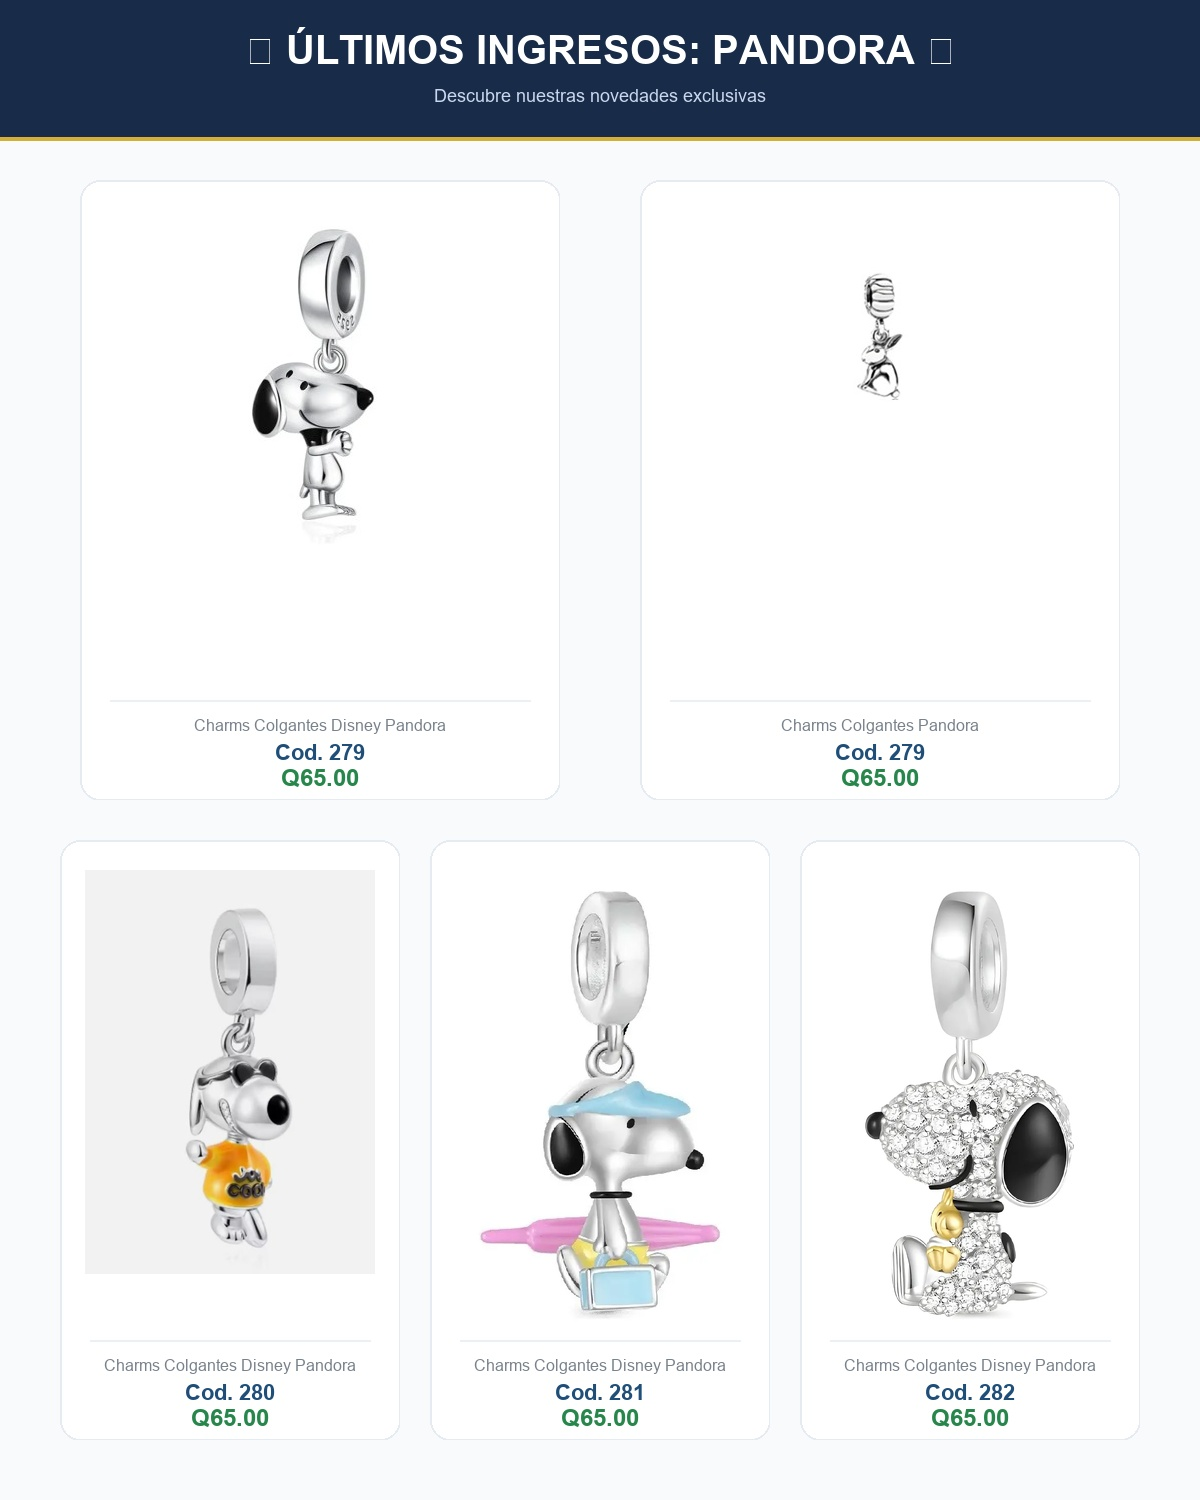
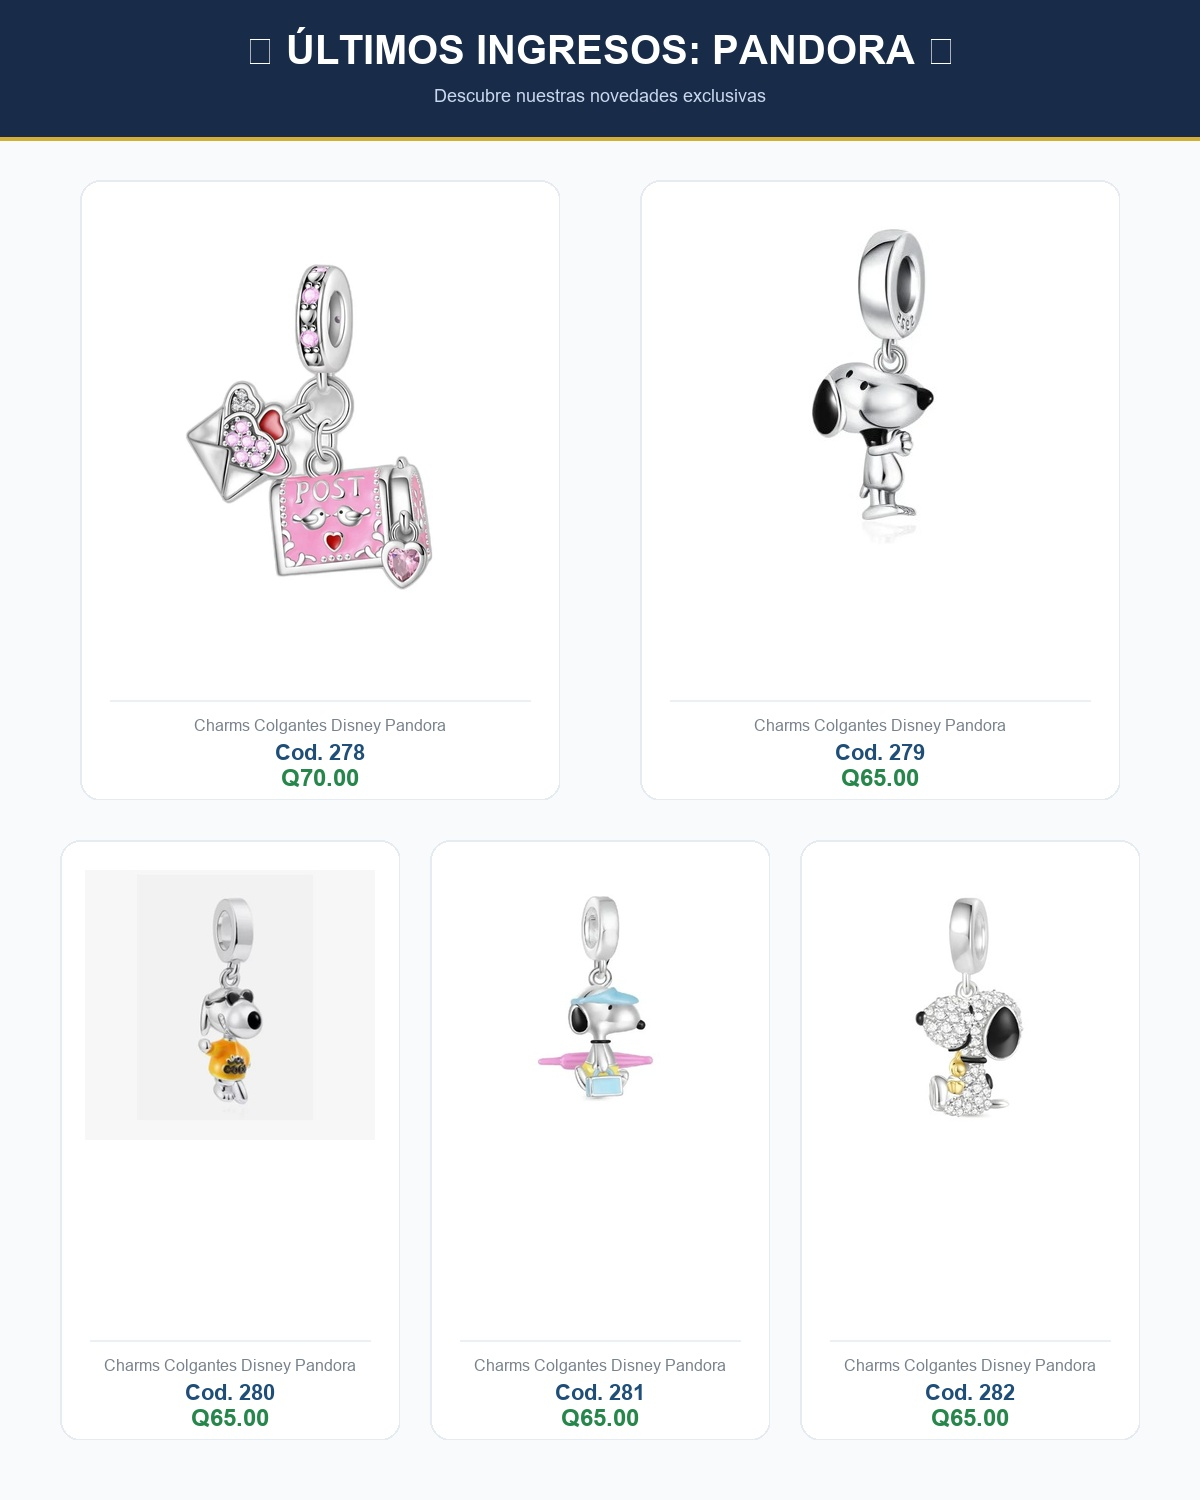
actualización general

diff --git a/charmscolgantesdisney.js b/charmscolgantesdisney.js
@@ -3,12 +3,12 @@ const productosCharmsColgantesDisney = [
         "id": 282,
         "categoria": "Charms Colgantes Disney",
         "precio": 65.0,
-        "imagen": "imagenes/charms_colgantes_disney/chcd_282.0.webp",
+        "imagen": "imagenes/charms_colgantes_disney/chcd_282.0.jpg",
         "stockTallas": {},
         "galeria": [
             {
                 "tipo": "imagen",
-                "url": "imagenes/charms_colgantes_disney/chcd_282.0.webp"
+                "url": "imagenes/charms_colgantes_disney/chcd_282.0.jpg"
             },
             {
                 "tipo": "imagen",
@@ -48,12 +48,12 @@ const productosCharmsColgantesDisney = [
         "id": 281,
         "categoria": "Charms Colgantes Disney",
         "precio": 65.0,
-        "imagen": "imagenes/charms_colgantes_disney/chcd_281.0.webp",
+        "imagen": "imagenes/charms_colgantes_disney/chcd_281.0.jpg",
         "stockTallas": {},
         "galeria": [
             {
                 "tipo": "imagen",
-                "url": "imagenes/charms_colgantes_disney/chcd_281.0.webp"
+                "url": "imagenes/charms_colgantes_disney/chcd_281.0.jpg"
             },
             {
                 "tipo": "imagen",
@@ -69,12 +69,12 @@ const productosCharmsColgantesDisney = [
         "id": 280,
         "categoria": "Charms Colgantes Disney",
         "precio": 65.0,
-        "imagen": "imagenes/charms_colgantes_disney/chcd_280.0.webp",
+        "imagen": "imagenes/charms_colgantes_disney/chcd_280.0.jpg",
         "stockTallas": {},
         "galeria": [
             {
                 "tipo": "imagen",
-                "url": "imagenes/charms_colgantes_disney/chcd_280.0.webp"
+                "url": "imagenes/charms_colgantes_disney/chcd_280.0.jpg"
             }
         ]
     },
